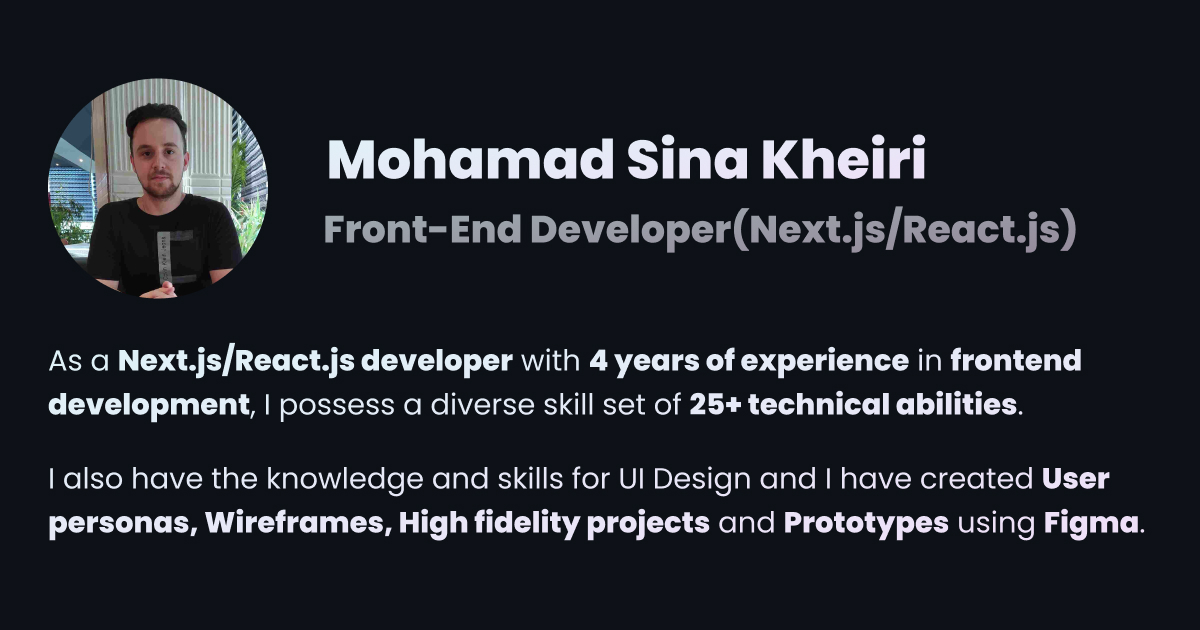
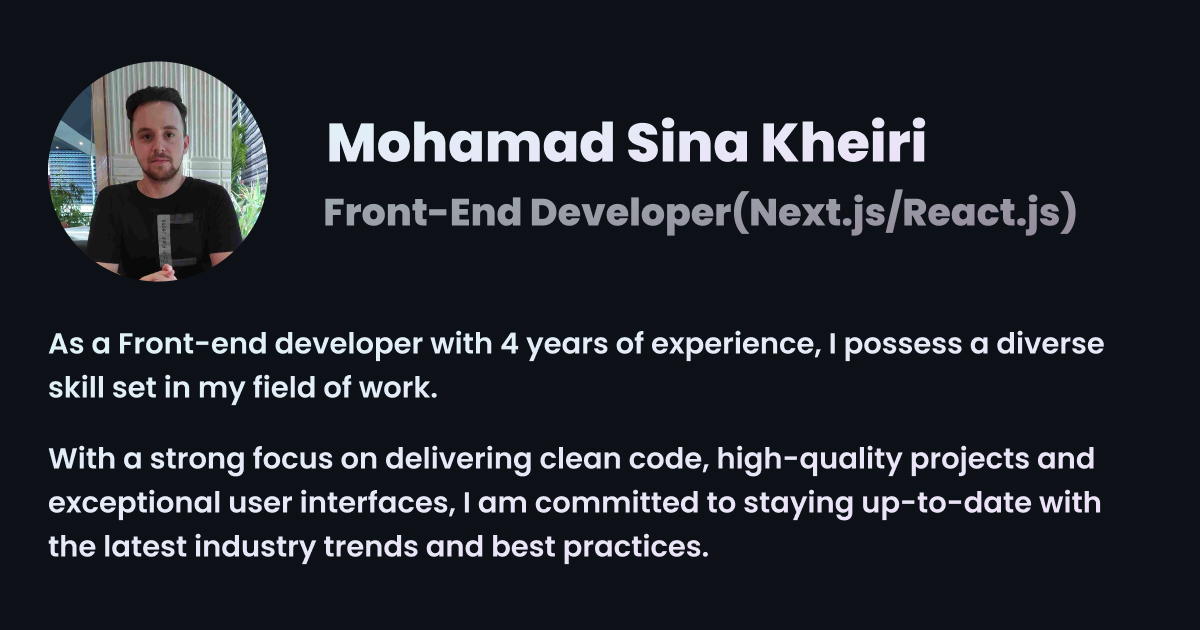
Updated preview and description

Changed region(s): [[0.0308, 0.0905, 0.8942, 0.4825], [0.0308, 0.6937, 0.9558, 0.9048], [0.0308, 0.5127, 0.925, 0.6635]]

diff --git a/src/components/utils/CustomHead.tsx b/src/components/utils/CustomHead.tsx
@@ -17,7 +17,7 @@ export default function CustomHead(props: CustomHeadProps) {
   const seo = {
     title: 'Sina Kheiri - Front-end developer(Next.js/React.js)',
     description:
-      'As a Next.js/React.js developer with 4 years of experience in frontend development, I possess a diverse skill set of 25+ technical abilities. I also have the knowledge and skills for UI Design and I have created User personas, Wireframes, High fidelity projects and Prototypes using Figma.',
+      'As a Front-end developer with 4 years of experience, I possess a diverse skill set in my field of work. With a strong focus on delivering clean code, high-quality projects and exceptional user interfaces, I am committed to staying up-to-date with the latest industry trends and best practices.',
     url: router.asPath,
     image: preview.src,
     twitterCardType: 'summary',
